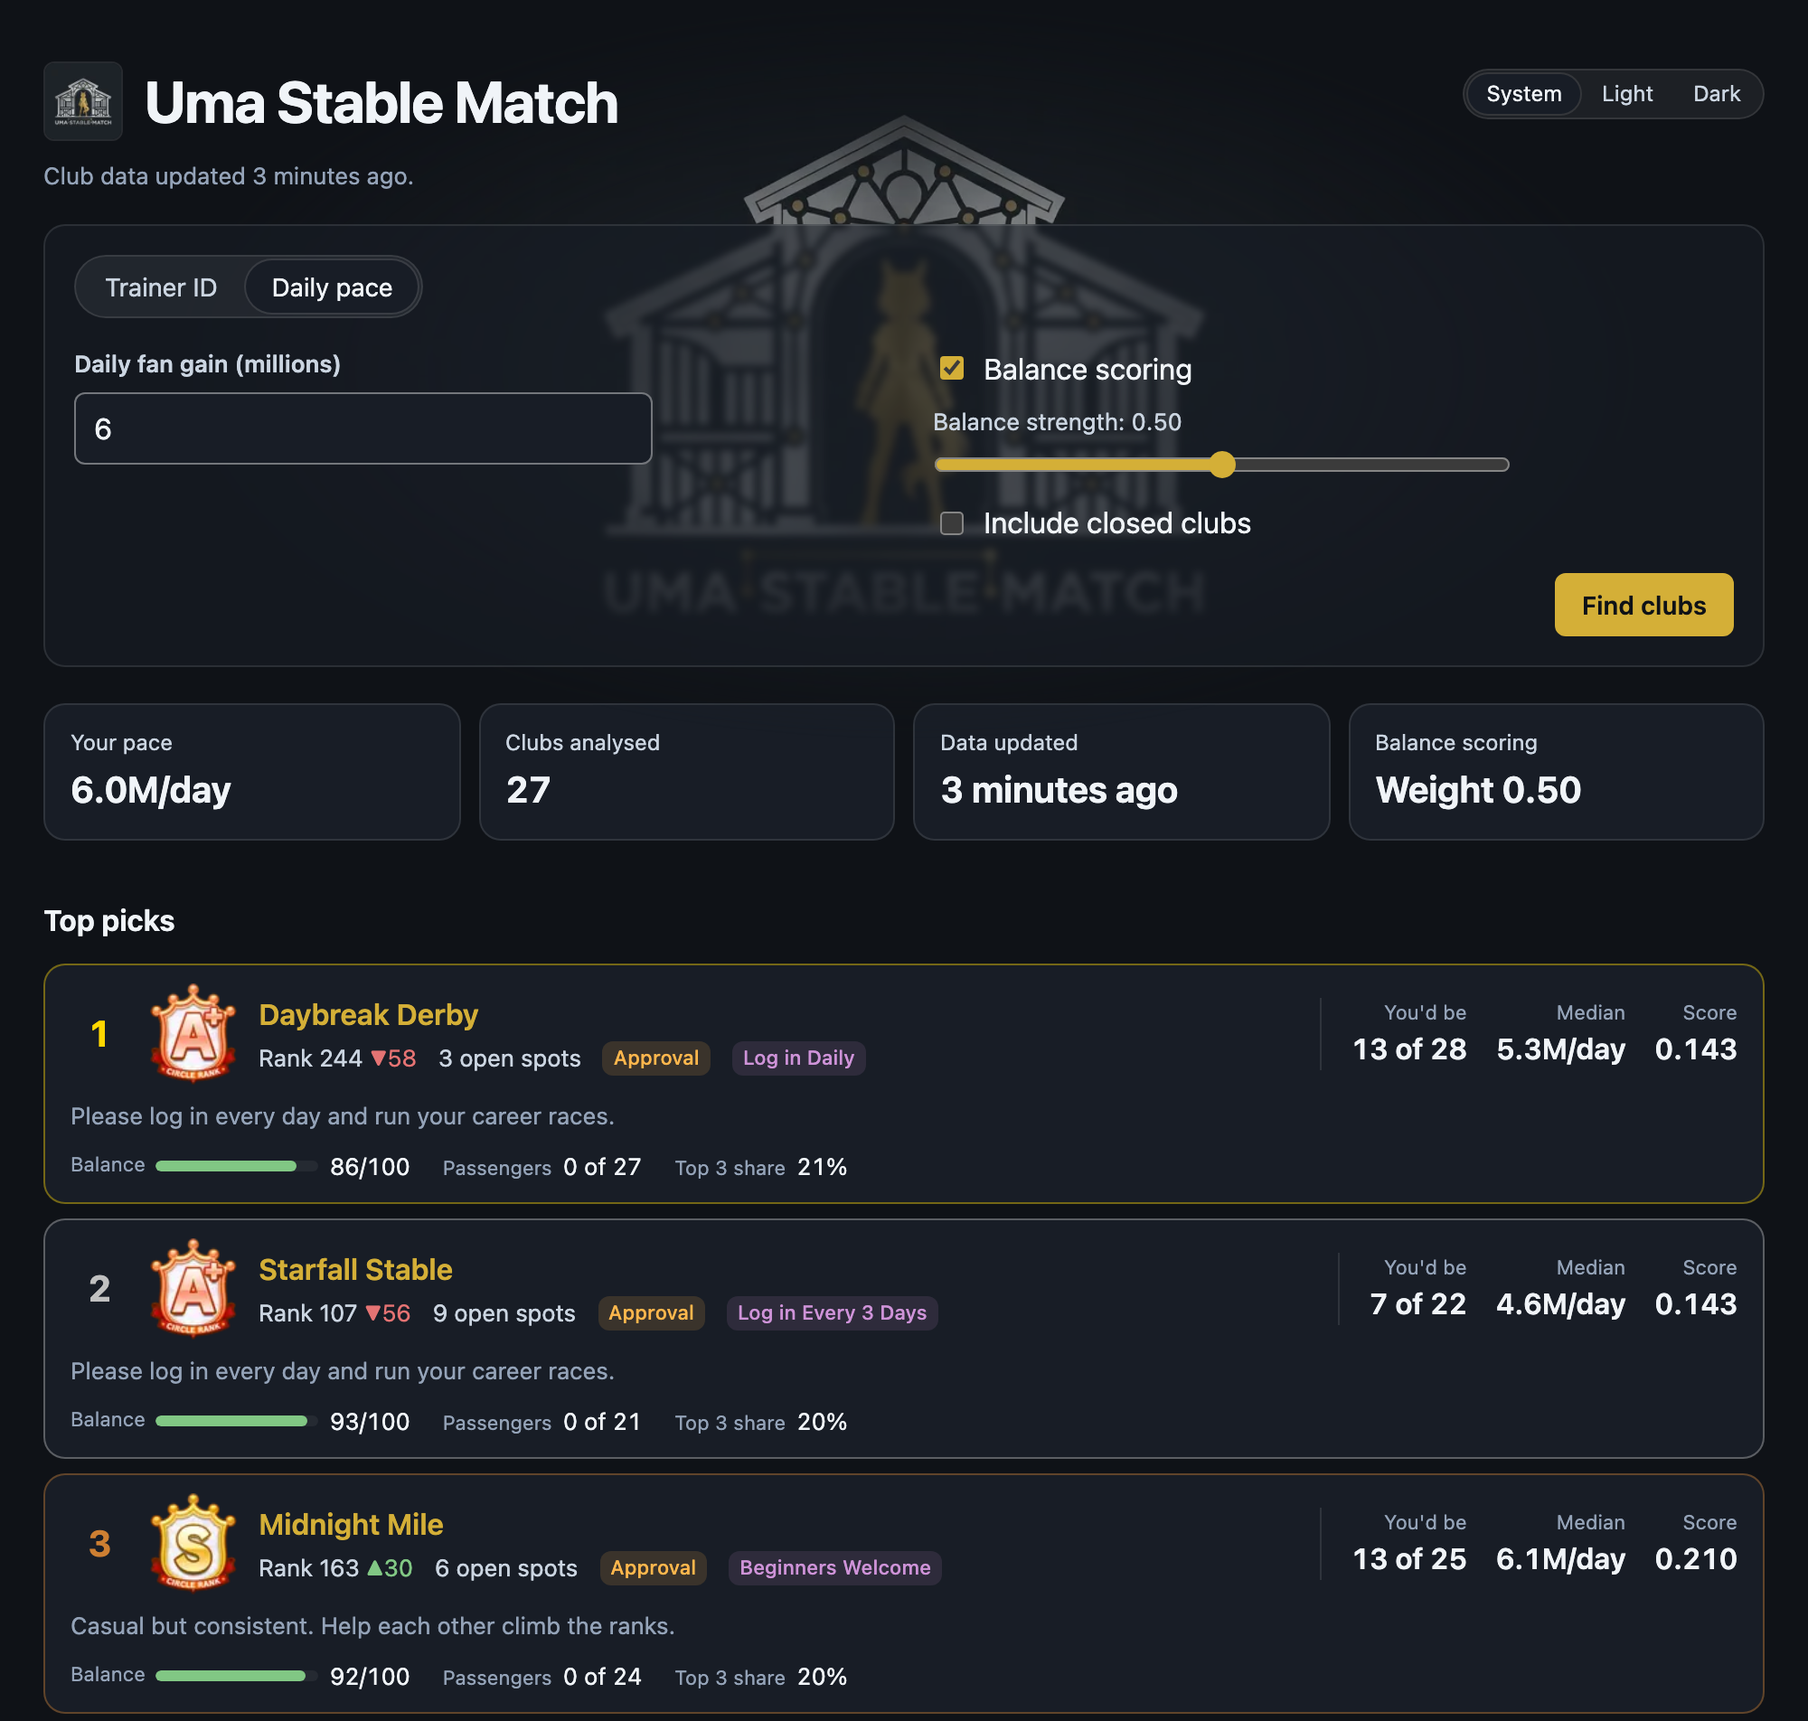
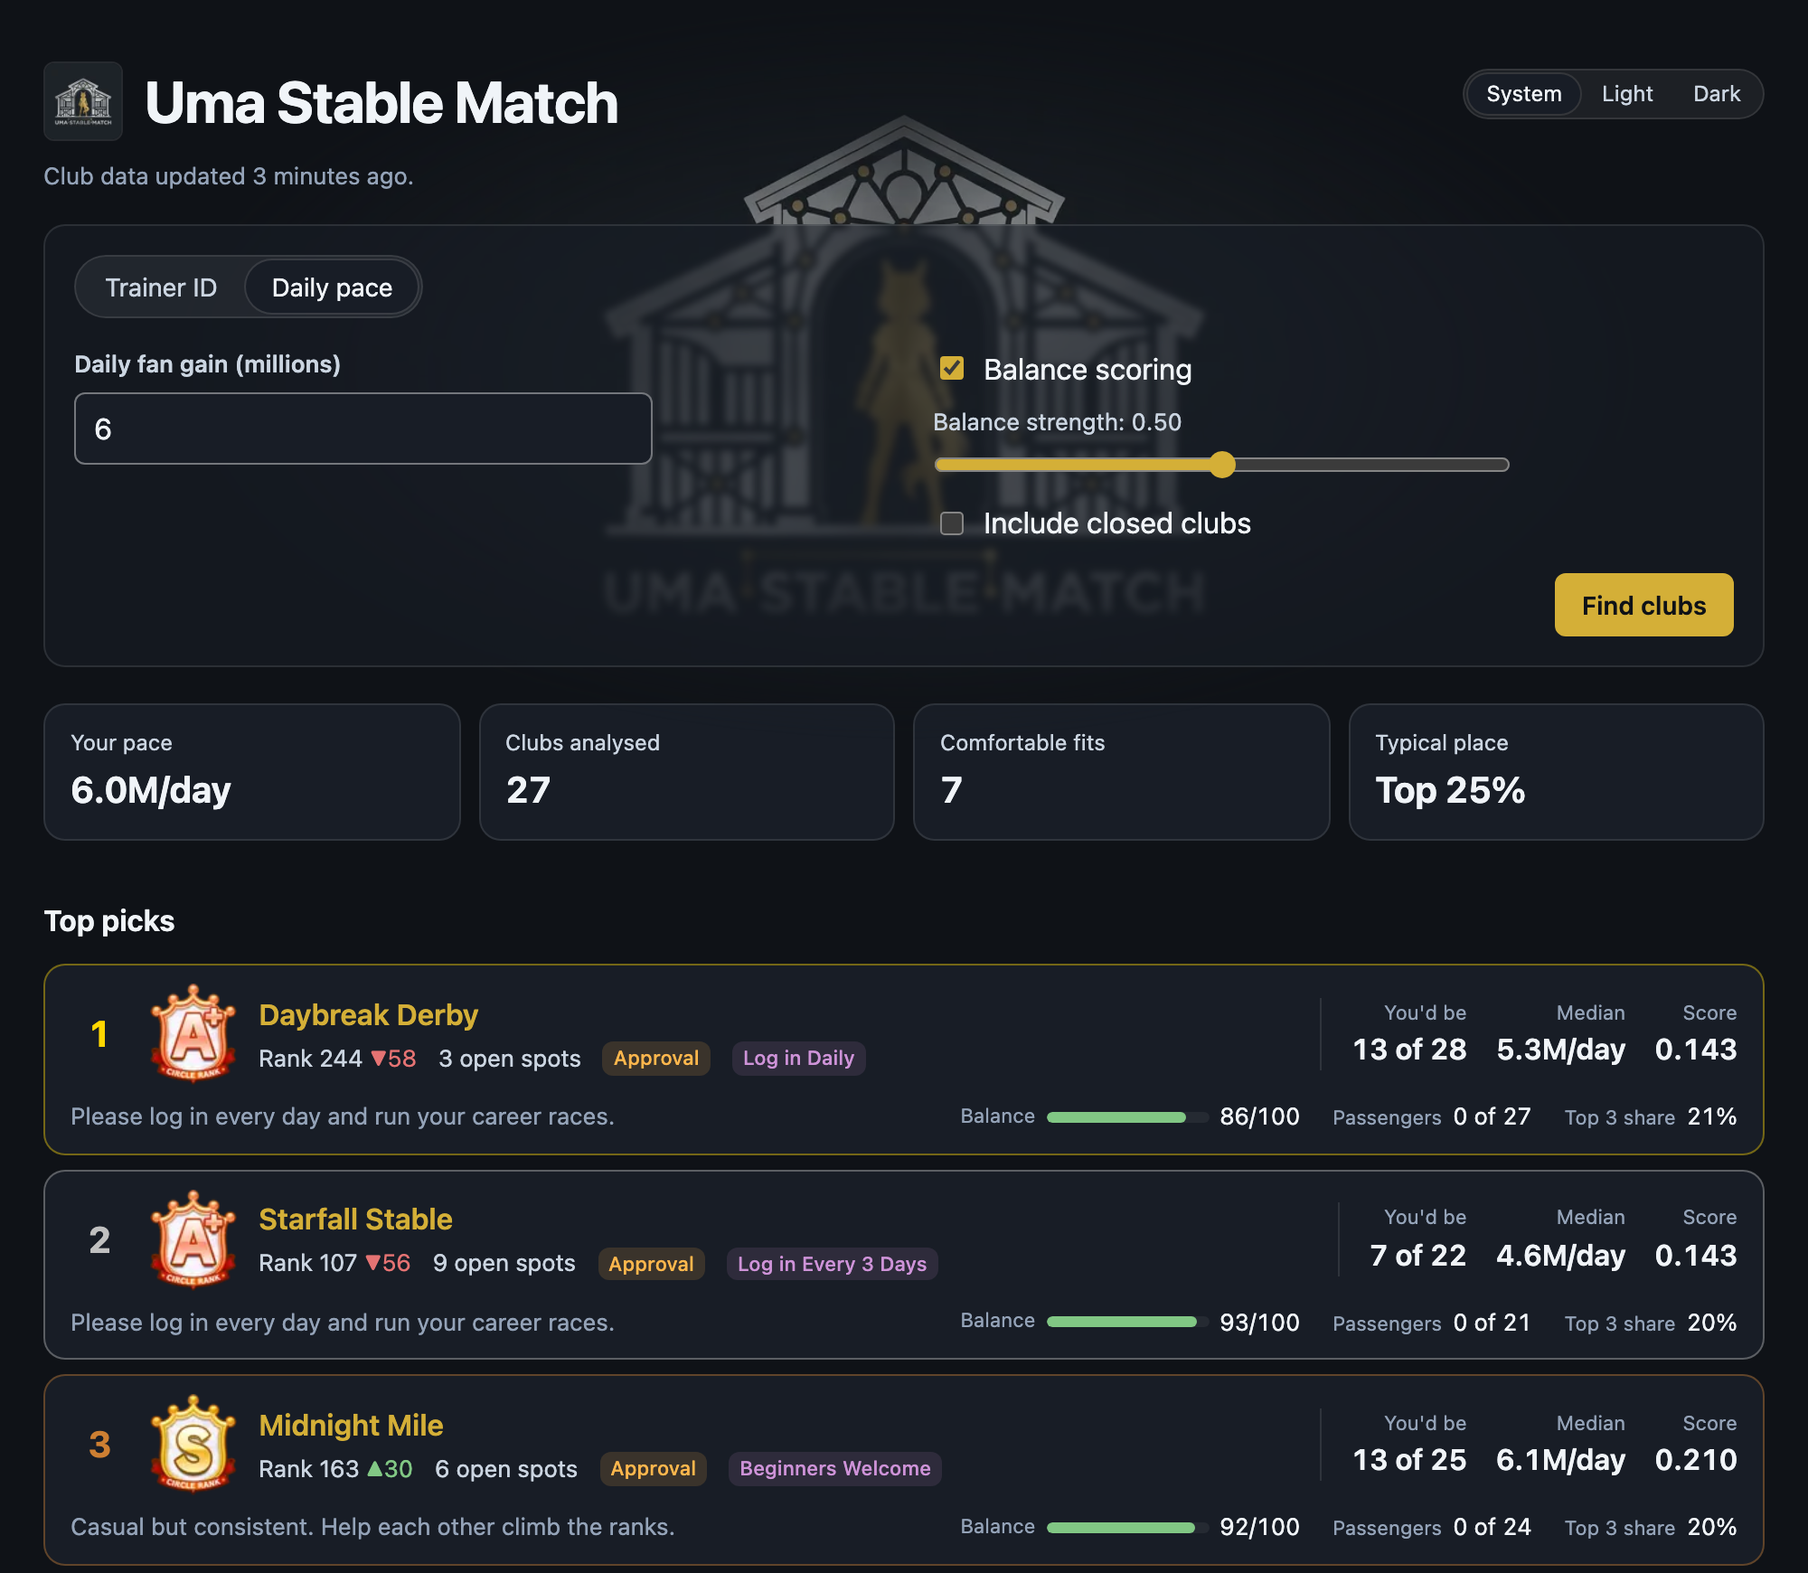
feat: show visitor stats in the results summary and shorten top pick cards (#150) (#151)
* feat: show visitor stats in the results summary and shorten top pick cards

* docs: document the visitor stats and card layout

diff --git a/frontend/src/lib/Results.test.ts b/frontend/src/lib/Results.test.ts
@@ -6,36 +6,37 @@ import { describe, expect, it } from 'vitest';
 import Results from './Results.svelte';
 import { club, recommendations } from './test-data';
 
-const now = new Date('2026-03-18T12:00:00Z');
-
 describe('Results', () => {
   it('summarises the search', () => {
-    render(Results, { result: recommendations({ total: 42 }), now });
+    const clubs = [
+      club({ circle_id: 1, your_place: 9, club_size: 26 }),
+      club({ circle_id: 2, your_place: 2, club_size: 20 }),
+      club({ circle_id: 3, your_place: 12, club_size: 20 }),
+    ];
+    render(Results, { result: recommendations({ total: 42, clubs }) });
     const summary = screen.getByTestId('result-summary');
     expect(within(summary).getByText('7.6M/day')).toBeInTheDocument();
     expect(within(summary).getByText('42')).toBeInTheDocument();
-    expect(within(summary).getByText('3 hours ago')).toHaveAttribute(
-      'datetime',
-      '2026-03-18T09:00:00Z',
-    );
-    expect(within(summary).getByText('Off')).toBeInTheDocument();
+    expect(within(summary).getByText('2')).toBeInTheDocument();
+    expect(within(summary).getByText('Top 35%')).toBeInTheDocument();
   });
 
-  it('shows the balance weight when balance is on', () => {
+  it("doesn't repeat the data age or the balance setting", () => {
     render(Results, {
       result: recommendations({
         options: { balance_weight: 0.5, include_closed: false, limit: 50 },
       }),
-      now,
     });
-    expect(screen.getByText('Weight 0.50')).toBeInTheDocument();
+    const summary = screen.getByTestId('result-summary');
+    expect(summary).not.toHaveTextContent('Data updated');
+    expect(summary).not.toHaveTextContent('Weight 0.50');
   });
 
   it('lists up to ten top picks in order', () => {
     const clubs = Array.from({ length: 12 }, (_, i) =>
       club({ circle_id: i + 1, name: `Club ${i + 1}`, url: `https://uma.moe/circles/${i + 1}` }),
     );
-    render(Results, { result: recommendations({ total: 12, clubs }), now });
+    render(Results, { result: recommendations({ total: 12, clubs }) });
     const picks = screen.getByRole('list');
     const items = within(picks).getAllByRole('listitem');
     expect(items).toHaveLength(10);
@@ -46,7 +47,7 @@ describe('Results', () => {
   });
 
   it('says when nothing matched', () => {
-    render(Results, { result: recommendations(), now });
+    render(Results, { result: recommendations() });
     expect(screen.getByText('No clubs matched your search.')).toBeInTheDocument();
   });
 });
@@ -57,7 +58,6 @@ describe('Results states', () => {
       result: recommendations({
         options: { balance_weight: 0.5, include_closed: false, limit: 100 },
       }),
-      now,
     });
     expect(screen.getByText('No clubs matched your search.')).toBeInTheDocument();
     expect(screen.getAllByRole('listitem')).toHaveLength(2);
@@ -66,7 +66,6 @@ describe('Results states', () => {
   it('dims stale results while a new search loads', () => {
     const { container } = render(Results, {
       result: recommendations({ total: 1, clubs: [club()] }),
-      now,
       stale: true,
     });
     const section = container.querySelector('section');
@@ -75,14 +74,13 @@ describe('Results states', () => {
   });
 
   it('shows no notices for complete, current results', () => {
-    render(Results, { result: recommendations(), now });
+    render(Results, { result: recommendations() });
     expect(screen.queryByTestId('result-notice')).not.toBeInTheDocument();
   });
 
   it('says how many clubs are still loading', () => {
     render(Results, {
       result: recommendations({ coverage: { shortlisted: 10, scored: 6, pending: 4 } }),
-      now,
     });
     expect(screen.getByTestId('result-notice')).toHaveTextContent(
       '4 more clubs are still loading. Search again in a minute for complete results.',
@@ -92,7 +90,6 @@ describe('Results states', () => {
   it("says when results use last month's data", () => {
     render(Results, {
       result: recommendations({ updated_at: '2026-03-02T15:00:00Z', month: '2026-02' }),
-      now,
     });
     expect(screen.getByTestId('result-notice')).toHaveTextContent(
       "These results are based on last month's data (February 2026)",

diff --git a/frontend/src/lib/ClubCard.svelte b/frontend/src/lib/ClubCard.svelte
@@ -83,28 +83,33 @@
     </dl>
   </div>
 
-  {#if club.comment}
-    <p class="comment">{club.comment}</p>
-  {/if}
+  {#if club.comment || club.balance}
+    <div class="details">
+      {#if club.comment}
+        <p class="comment">{club.comment}</p>
+      {/if}
 
-  {#if club.balance}
-    <dl class="balance">
-      <div class="bar-row">
-        <dt>Balance</dt>
-        <dd>
-          <span class="bar" aria-hidden="true"><i style:width="{club.balance.score}%"></i></span>
-          {club.balance.score}/100
-        </dd>
-      </div>
-      <div>
-        <dt>Passengers</dt>
-        <dd>{formatPlace(club.balance.passengers, club.balance.counted)}</dd>
-      </div>
-      <div>
-        <dt>Top 3 share</dt>
-        <dd>{formatPercent(club.balance.top3_share)}</dd>
-      </div>
-    </dl>
+      {#if club.balance}
+        <dl class="balance">
+          <div class="bar-row">
+            <dt>Balance</dt>
+            <dd>
+              <span class="bar" aria-hidden="true"><i style:width="{club.balance.score}%"></i></span
+              >
+              {club.balance.score}/100
+            </dd>
+          </div>
+          <div>
+            <dt>Passengers</dt>
+            <dd>{formatPlace(club.balance.passengers, club.balance.counted)}</dd>
+          </div>
+          <div>
+            <dt>Top 3 share</dt>
+            <dd>{formatPercent(club.balance.top3_share)}</dd>
+          </div>
+        </dl>
+      {/if}
+    </div>
   {/if}
 </article>
 
@@ -246,9 +251,19 @@
     white-space: nowrap;
   }
 
+  /* The description and balance details share a row on wide screens, and stack on narrow ones. */
+  .details {
+    display: flex;
+    gap: 8px 24px;
+    align-items: center;
+    justify-content: space-between;
+    margin-top: 8px;
+  }
+
   .comment {
+    flex: 1 1 auto;
     max-width: 80ch;
-    margin: 8px 0 0;
+    margin: 0;
     color: var(--muted);
     font-size: 0.8125rem;
     overflow-wrap: anywhere;
@@ -256,9 +271,10 @@
 
   .balance {
     display: flex;
+    flex: none;
     flex-wrap: wrap;
     gap: 6px 18px;
-    margin: 8px 0 0;
+    margin: 0;
     font-size: 0.8125rem;
   }
 
@@ -293,6 +309,14 @@
   }
 
   @media (max-width: 720px) {
+    .details {
+      display: block;
+    }
+
+    .comment + .balance {
+      margin-top: 8px;
+    }
+
     .head {
       grid-template-columns: 24px 48px minmax(0, 1fr);
       gap: 8px;

diff --git a/frontend/src/lib/ResultsSummary.svelte b/frontend/src/lib/ResultsSummary.svelte
@@ -1,25 +1,21 @@
 <!--
   @component
-  The search at a glance: pace used, clubs analysed, data age and balance setting.
+  The search at a glance: pace used, clubs analysed, comfortable fits and typical place.
 -->
 
 <script lang="ts">
   import type { Recommendations } from './api';
-  import { formatPerDay, formatUpdated } from './format';
+  import { formatPerDay } from './format';
+  import { comfortableFits, formatTopShare, typicalPlace } from './stats';
 
   interface Props {
     result: Recommendations;
-    now?: Date;
   }
 
-  let { result, now }: Props = $props();
+  let { result }: Props = $props();
 
-  const updated = $derived(formatUpdated(result.updated_at, now));
-  const balance = $derived(
-    result.options.balance_weight === null
-      ? 'Off'
-      : `Weight ${result.options.balance_weight.toFixed(2)}`,
-  );
+  const fits = $derived(comfortableFits(result.clubs));
+  const typical = $derived(formatTopShare(typicalPlace(result.clubs)));
 </script>
 
 <dl class="stats" data-testid="result-summary">
@@ -32,12 +28,12 @@
     <dd>{result.total}</dd>
   </div>
   <div class="stat">
-    <dt>Data updated</dt>
-    <dd><time datetime={result.updated_at} title={result.updated_at}>{updated}</time></dd>
+    <dt>Comfortable fits</dt>
+    <dd title="Clubs where you'd sit 25% to 60% of the way down the members">{fits}</dd>
   </div>
   <div class="stat">
-    <dt>Balance scoring</dt>
-    <dd>{balance}</dd>
+    <dt>Typical place</dt>
+    <dd title="Your middle place across these clubs">{typical}</dd>
   </div>
 </dl>
 

diff --git a/frontend/src/lib/stats.test.ts b/frontend/src/lib/stats.test.ts
@@ -1,0 +1,38 @@
+// Results summary statistics tests. All data is made up.
+
+import { describe, expect, it } from 'vitest';
+
+import { comfortableFits, formatTopShare, typicalPlace } from './stats';
+import { club } from './test-data';
+
+const at = (your_place: number, club_size: number) => club({ your_place, club_size });
+
+describe('comfortableFits', () => {
+  it('counts clubs where you would sit 25% to 60% of the way down', () => {
+    const clubs = [at(5, 20), at(12, 20), at(13, 20), at(4, 20), at(1, 20)];
+    expect(comfortableFits(clubs)).toBe(2);
+  });
+
+  it('is zero without clubs', () => {
+    expect(comfortableFits([])).toBe(0);
+  });
+});
+
+describe('typicalPlace', () => {
+  it('is the middle place share across the clubs', () => {
+    expect(typicalPlace([at(2, 20), at(10, 20), at(18, 20)])).toBe(0.5);
+    expect(typicalPlace([at(4, 20), at(8, 20)])).toBeCloseTo(0.3);
+  });
+
+  it('is null without clubs', () => {
+    expect(typicalPlace([])).toBeNull();
+  });
+});
+
+describe('formatTopShare', () => {
+  it('shows a share as top N percent', () => {
+    expect(formatTopShare(0.456)).toBe('Top 46%');
+    expect(formatTopShare(0.001)).toBe('Top 1%');
+    expect(formatTopShare(null)).toBe('–');
+  });
+});

diff --git a/frontend/src/lib/stats.ts b/frontend/src/lib/stats.ts
@@ -1,0 +1,33 @@
+/** Statistics about the visitor across their results, for the results summary. */
+
+import type { Club } from './api';
+
+const COMFORT_FROM = 0.25;
+const COMFORT_TO = 0.6;
+
+function placeShare(club: Club): number {
+  return club.your_place / club.club_size;
+}
+
+/** Clubs where the visitor would sit 25% to 60% of the way down the members, the range fit aims for. */
+export function comfortableFits(clubs: Club[]): number {
+  return clubs.filter((club) => {
+    const share = placeShare(club);
+    return share >= COMFORT_FROM && share <= COMFORT_TO;
+  }).length;
+}
+
+/** The middle of the visitor's place shares (place ÷ club size), or `null` without clubs. */
+export function typicalPlace(clubs: Club[]): number | null {
+  if (clubs.length === 0) {
+    return null;
+  }
+  const shares = clubs.map(placeShare).sort((a, b) => a - b);
+  const middle = Math.floor(shares.length / 2);
+  return shares.length % 2 === 1 ? shares[middle]! : (shares[middle - 1]! + shares[middle]!) / 2;
+}
+
+/** A place share as `Top 46%`, never below `Top 1%`, or a dash for `null`. */
+export function formatTopShare(share: number | null): string {
+  return share === null ? '–' : `Top ${Math.max(1, Math.round(share * 100))}%`;
+}

diff --git a/frontend/src/lib/Results.svelte b/frontend/src/lib/Results.svelte
@@ -14,11 +14,10 @@
 
   interface Props {
     result: Recommendations;
-    now?: Date;
     stale?: boolean;
   }
 
-  let { result, now, stale = false }: Props = $props();
+  let { result, stale = false }: Props = $props();
 
   const picks = $derived(result.clubs.slice(0, TOP_PICKS));
   const balanceOn = $derived(result.options.balance_weight !== null);
@@ -28,7 +27,7 @@
 
 <section aria-labelledby="results-heading" class:stale aria-busy={stale}>
   <h2 id="results-heading" class="visually-hidden">Results</h2>
-  <ResultsSummary {result} {now} />
+  <ResultsSummary {result} />
   {#each notices as notice (notice)}
     <p class="notice" data-testid="result-notice">{notice}</p>
   {/each}

diff --git a/site/index.html b/site/index.html
@@ -690,7 +690,7 @@
         </div>
         <figure class="showcase">
             <div class="showcase-frame">
-                <img src="images/results.webp" width="1200" height="1143" loading="lazy" decoding="async"
+                <img src="images/results.webp" width="1200" height="1044" loading="lazy" decoding="async"
                      alt="Uma Stable Match results: a daily pace of 6 million fans, a summary of the clubs analysed, and top picks showing each club's tier, rank and trend, open spots, join style, your place among its members, median daily gain, balance and passengers." />
             </div>
             <figcaption>Example results, shown with made-up clubs.</figcaption>

diff --git a/frontend/README.md b/frontend/README.md
@@ -65,7 +65,8 @@ src/lib/search.ts             Search validation, URL parameters and "remember me
 src/lib/format.ts             Number, rank trend, label and time formatting
 src/lib/Results.svelte        Results view: summary, top picks and all results
 src/lib/ResultsTable.svelte   Sortable, searchable table of the best fits
-src/lib/ResultsSummary.svelte Pace, clubs analysed, data age and balance setting
+src/lib/ResultsSummary.svelte Pace, clubs analysed, comfortable fits and typical place
+src/lib/stats.ts              Comfortable fits and typical place, from the results
 src/lib/ClubCard.svelte       One top pick
 src/lib/TierBadge.svelte      Tier icon, with a fallback for unknown tiers
 src/lib/test-data.ts          Made-up data for component tests
@@ -107,16 +108,20 @@ Each search replaces the page URL's query with the same parameters the API uses,
 
 After a search, the page shows a summary and the top ten picks.
 
-- **Summary:** your pace, how many clubs were analysed (the API's `total`), how long ago the data was updated (with the exact time on hover), and the balance setting used.
+- **Summary:** your pace, how many clubs were analysed (the API's `total`), and two stats about you from the returned clubs (`stats.ts`):
+  - **Comfortable fits:** clubs where you'd sit 25% to 60% of the way down the members, the range fit aims for
+  - **Typical place:** the middle of your place ÷ club size across the clubs, such as "Top 25%"
+
+  Hovering over either value explains it. The data age is shown under the title instead, and the balance setting is in the form.
 - **Each card:**
   - **Header:** the pick number (gold, silver and bronze for the top three), the tier icon, and the club name linking to uma.moe in a new tab
   - **Details:** the monthly rank and trend, open spots, join style and playstyle tags, and the description
   - **How you'd compare:** your place, the club's median per day, and the fit (or the score, with balance on)
-  - **With balance on:** the balance score as a bar, passengers and top-three share
+  - **With balance on:** the balance score as a bar, passengers and top-three share. On wide screens they sit to the right of the description, so the card stays one row shorter
 - **Notices:** under the summary, when they apply:
   - "*N more clubs are still loading. Search again in a minute for complete results.*" when the API's `coverage.pending` is above 0
   - "*These results are based on last month's data (February 2026), because the new game month has only just started.*" when `month` isn't the game month of `updated_at`
-- **Layout:** on narrow screens, the numbers move below the club details.
+- **Layout:** on narrow screens, up to 720 pixels wide, the numbers move below the club details, and the description and balance details stack.
 - **Screen readers:** after a search, only a short "Found N clubs" message is announced, followed by any notices, not the whole list. The text goes into a live region that's always on the page, because a notice that appears together with new results isn't reliably announced. Rank trends have spoken descriptions, such as "Up 16 places since last month".
 
 ### Tier icons

diff --git a/README.md b/README.md
@@ -136,6 +136,8 @@ Club data refreshes automatically once a day, shortly after uma.moe's daily upda
 
 <sub>The All results table, shown with made-up clubs. Search by name, or select a column to sort. With closed clubs included, a filter can hide them again.</sub>
 
+Above your top picks, a summary shows your pace, how many clubs were analysed, your **comfortable fits** (clubs where you'd sit 25–60% of the way down the members) and your **typical place** across your results, such as *Top 25%*.
+
 | Field | Meaning |
 |---|---|
 | **Fit** | How well the club suits you. **Lower is better.** |
